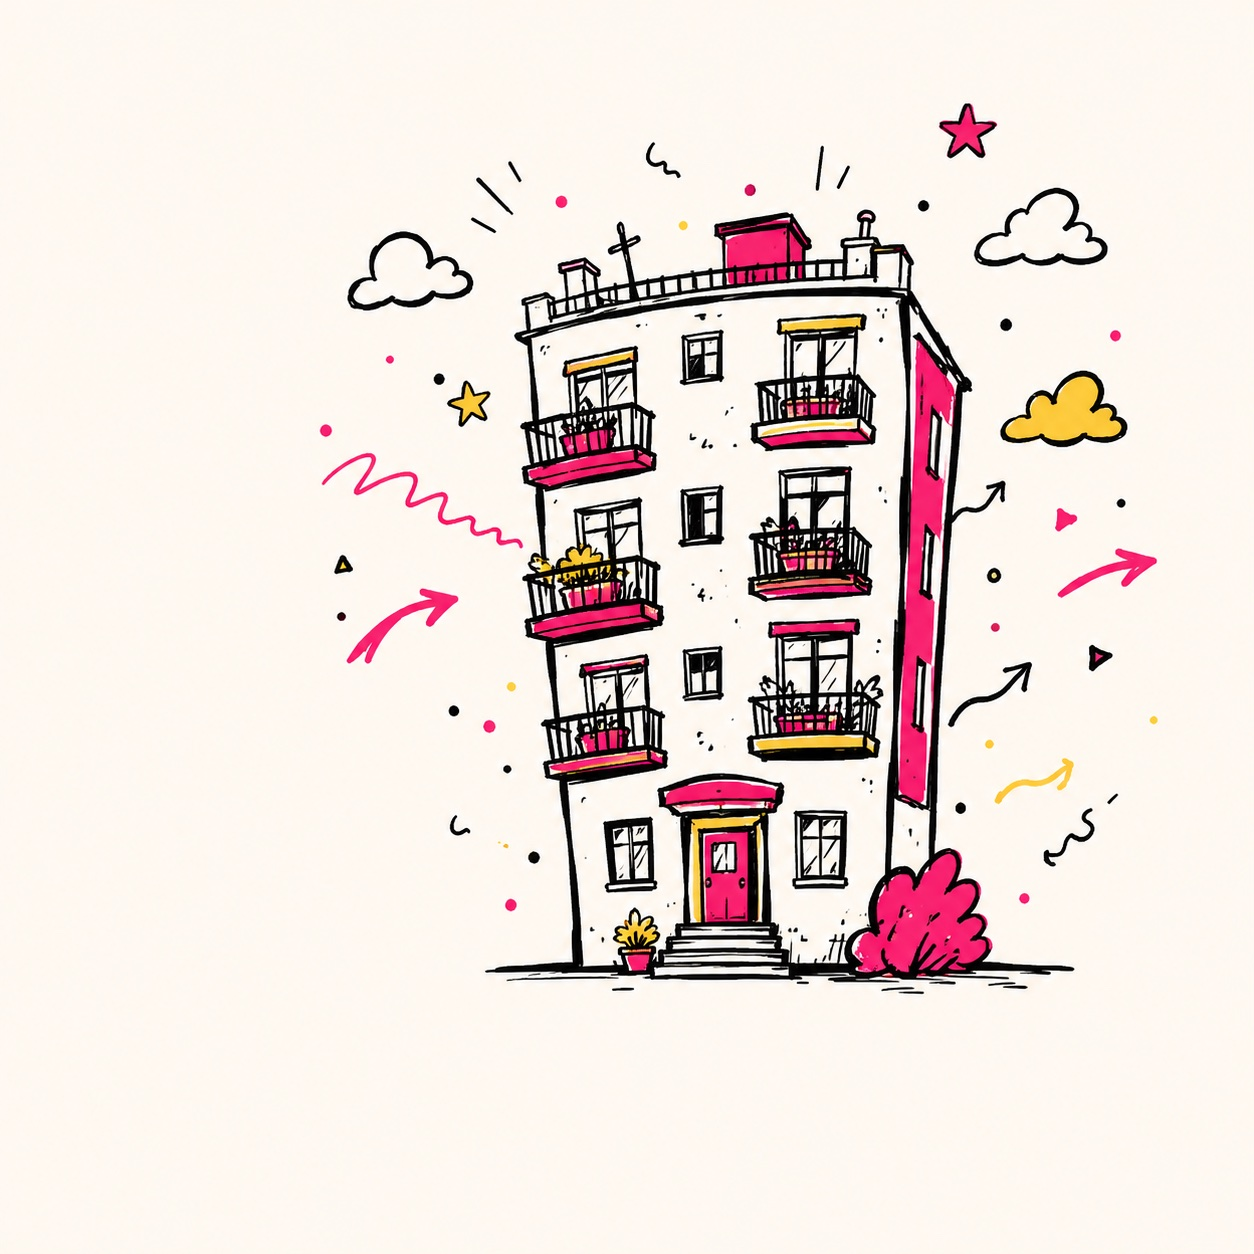
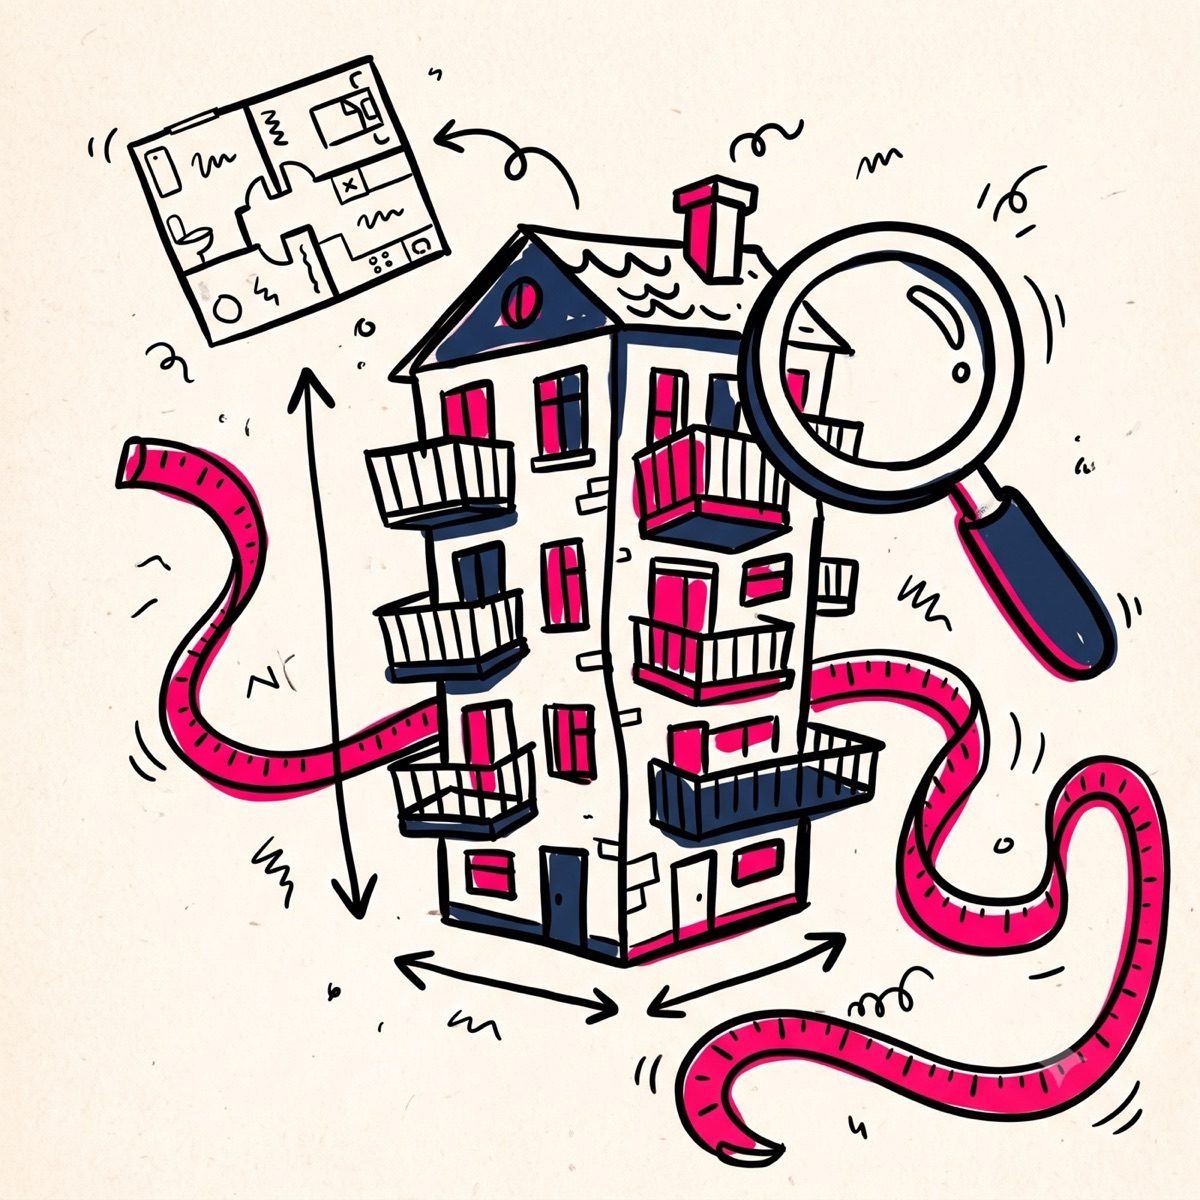
feat: add valuation doodle illustration and adjust background styling

diff --git a/css/fourwalls.css b/css/fourwalls.css
@@ -167,6 +167,18 @@
   color: #fff;
 }
 
+/* Εκτίμηση ακινήτου — doodle illustration (index) -------------------- */
+/* The valuation doodle is a square drawing on cream paper, but the
+   theme's .img-bg pane is taller than wide, so `cover` crops its sides
+   off. Fit the whole drawing inside with some breathing room and let
+   the matching paper tone fill the rest of the pane.                   */
+.block-feature-four .img-gallery .img-bg {
+  background-color: #fbf3e5;
+  background-size: contain;
+  background-origin: content-box;
+  padding: 24px;
+}
+
 /* Reviews (index feedback slider) ----------------------------------- */
 /* The Google star rating is an SVG; cap its width so it doesn't stretch
    to fill the column. The reviewer avatar keeps its own .avatar size.   */